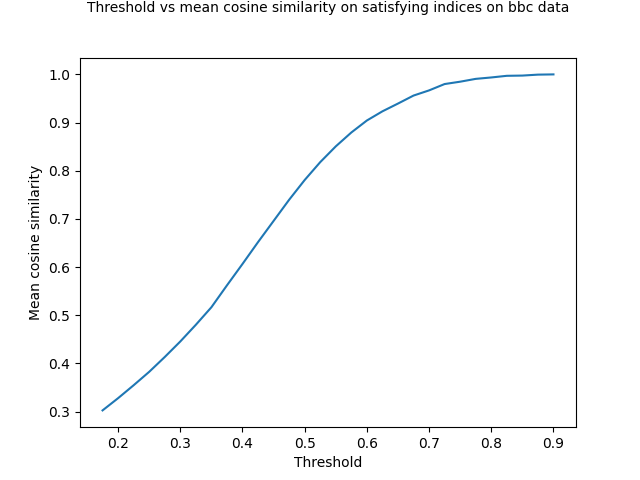
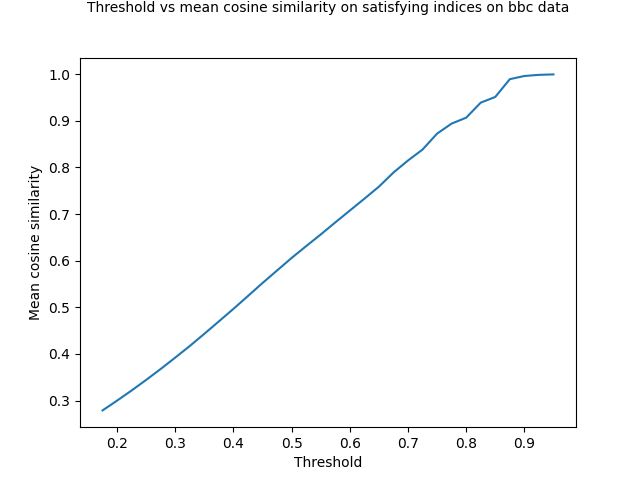
tokenization using Spacy

diff --git a/paraphrase/dataloader_testcorpus.py b/paraphrase/dataloader_testcorpus.py
@@ -13,6 +13,8 @@ import numpy as np
 from numpy import linalg as LA
 
 from itertools import combinations
+import nltk
+from nltk.tokenize import sent_tokenize
 
 import pandas as pd
 
@@ -44,6 +46,14 @@ def get_bbc_corpus(full_file_path):
     df_sentences = pd.DataFrame({'sents':list_of_sentences})
     new_df = df_sentences.explode('sents', ignore_index=True)
     return list_of_paras, list_of_sentences, new_df['sents']
+
+def get_bbc_corpus_spacy(full_file_path):
+    data_file = pd.read_csv(full_file_path)
+    new_df = pd.DataFrame({"transcript":data_file.transcript})
+    new_df['tokenized_sents'] = new_df.apply(lambda row: sent_tokenize(row['transcript']), axis=1)
+    new_df = new_df.drop(columns=['transcript'])
+    new_df = new_df.explode('tokenized_sents', ignore_index=True)
+    return new_df
 
 #FILTER corpus based on indices
 def filter_corpus_as_dataframe(full_file_path, list_of_indices):
@@ -159,11 +169,11 @@ def main():
         if args.device == "gpu":
             if args.data == "bbc":
                 print("generating new embeddings from {} ........".format(args.data))
-                paras,sent_lists, sentences = get_bbc_corpus(file_bbc)
+                sentences = get_bbc_corpus_spacy(file_bbc)
                 #print(paras.head(), paras.shape)
                 #print(sent_lists.head(), sent_lists.shape)
                 print(sentences.head(), sentences.shape)
-                list_of_embeddings, list_of_sentences = generate_and_save_embeddings_bbc(sentences)
+                list_of_embeddings, list_of_sentences = generate_and_save_embeddings_bbc(sentences['tokenized_sents'])
                 print(list_of_embeddings.shape)
 
             else:
@@ -198,10 +208,10 @@ def main():
    
     else:
         if args.data == "bbc":
-            print("Loading from saved from {} .....".format(args.data))
+            print("Loading cosine matrix from saved from {} .....".format(args.data))
             loaded_pair_cosine_matrix = np.load("paraphrase/data/cosine_sim_16_bbc.npy")
         else:
-            print("Loading from saved from big corpus .....")
+            print("Loading cosine matrix from saved from big corpus .....")
             loaded_pair_cosine_matrix = np.load("paraphrase/data/cosine_sim_16_bigcorpus.npy")
         print(loaded_pair_cosine_matrix.shape)
         print(loaded_pair_cosine_matrix[0][0:15])
